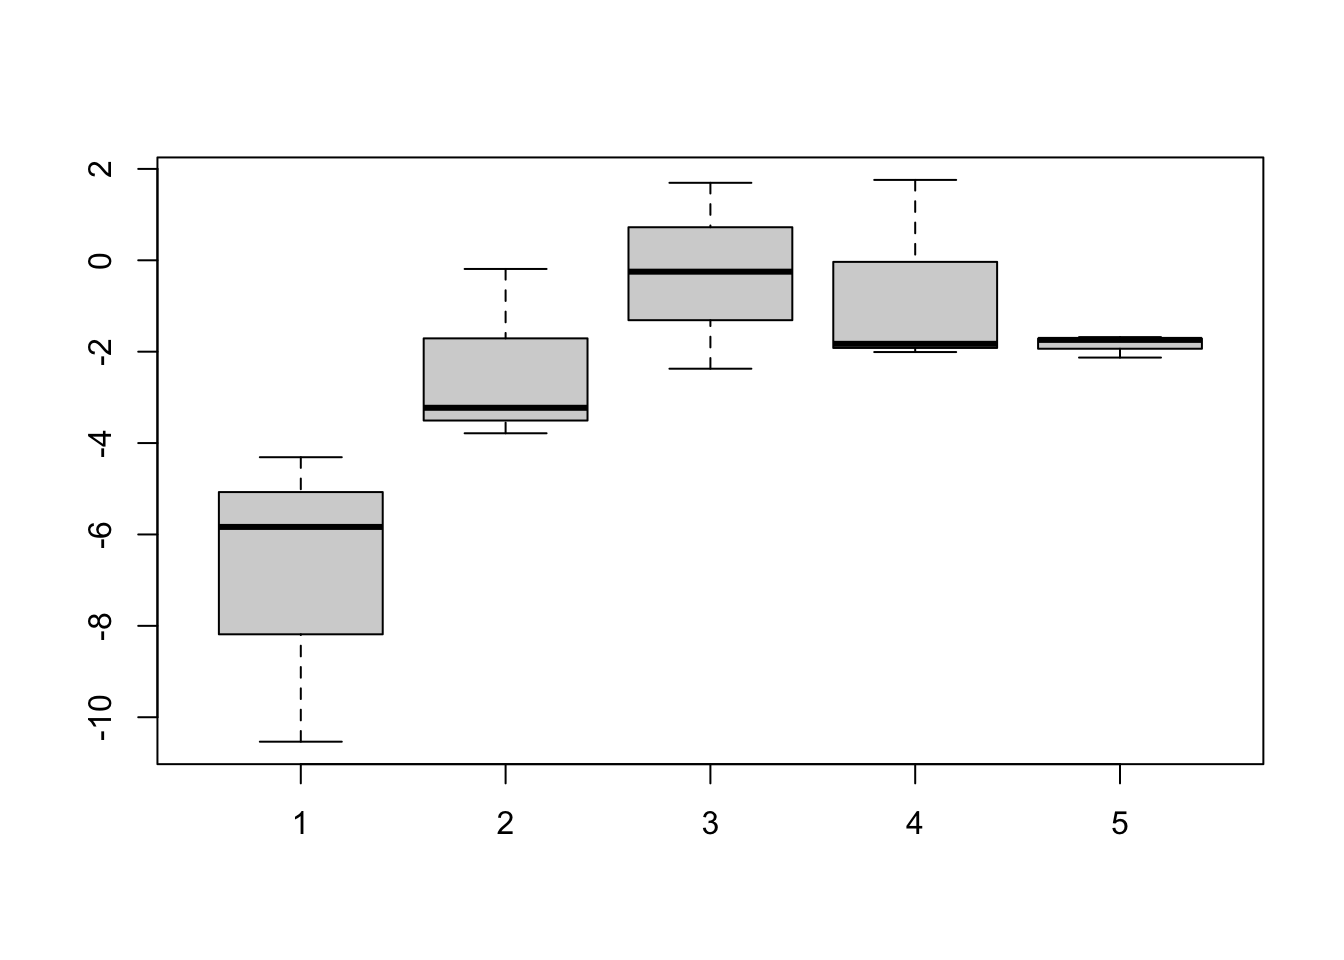
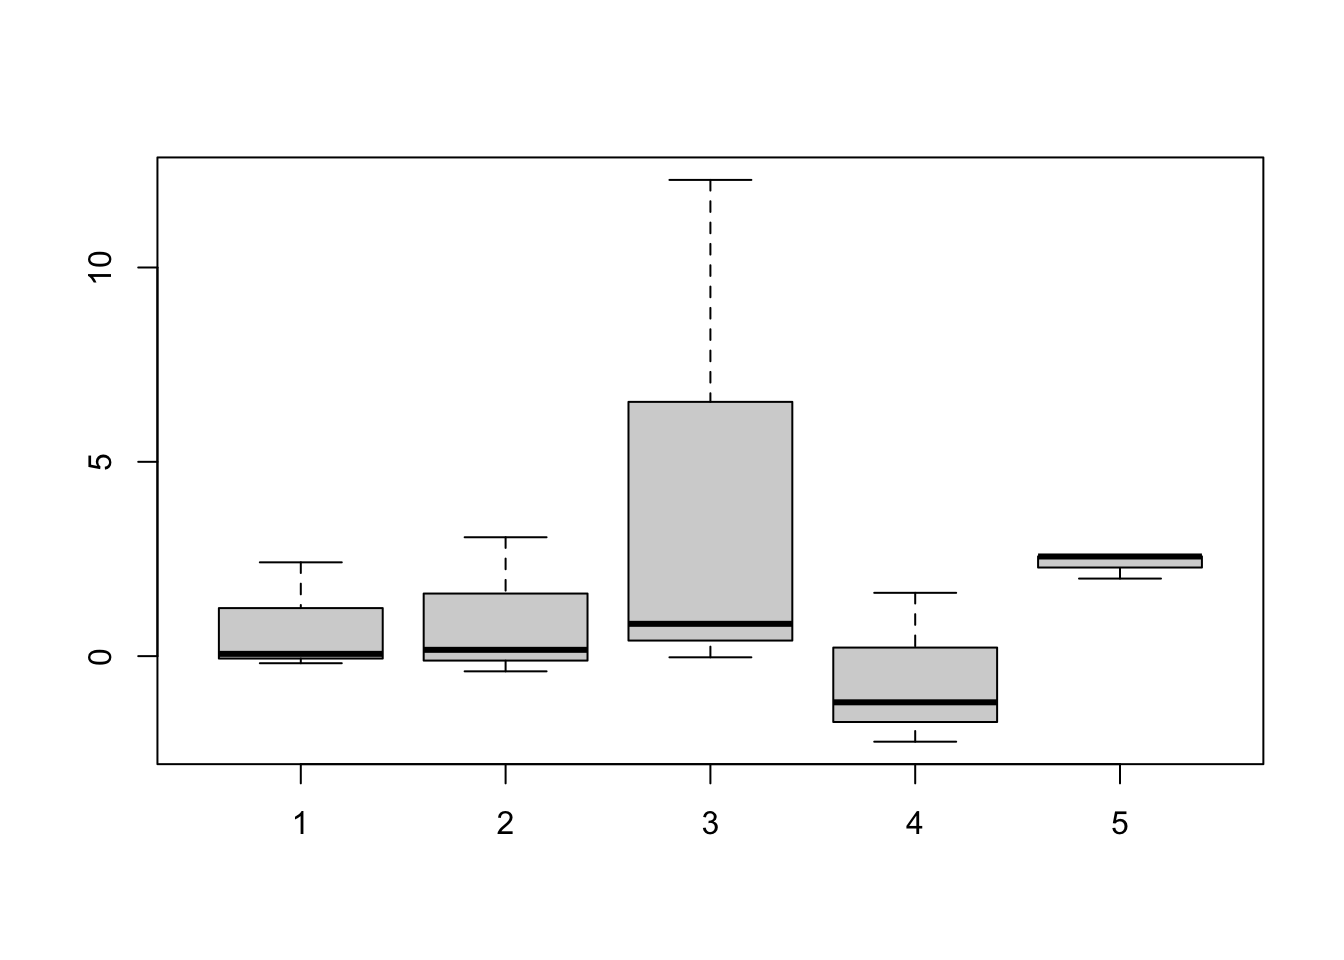
update

diff --git a/docs/tutorial/RandomEffect.html b/docs/tutorial/RandomEffect.html
@@ -496,7 +496,7 @@ window.Quarto = {
 </section>
 <section id="example-demonstration" class="level2">
 <h2 class="anchored" data-anchor-id="example-demonstration">Example demonstration</h2>
-<p>Now assume we observe data from <span class="math inline">\(m=50\)</span> groups and each grup has <span class="math inline">\(n=5\)</span> repeated measures. Let’s plot the contour function.</p>
+<p>Now assume we observe data from <span class="math inline">\(m=30\)</span> groups and each grup has <span class="math inline">\(n=5\)</span> repeated measures. Let’s plot the contour function.</p>
 <div class="cell">
 <div class="code-copy-outer-scaffold"><div class="sourceCode cell-code" id="cb3"><pre class="sourceCode r code-with-copy"><code class="sourceCode r"><span id="cb3-1"><a href="#cb3-1" aria-hidden="true" tabindex="-1"></a>m <span class="ot">&lt;-</span> <span class="dv">30</span></span>
 <span id="cb3-2"><a href="#cb3-2" aria-hidden="true" tabindex="-1"></a>n <span class="ot">&lt;-</span> <span class="dv">5</span></span>
